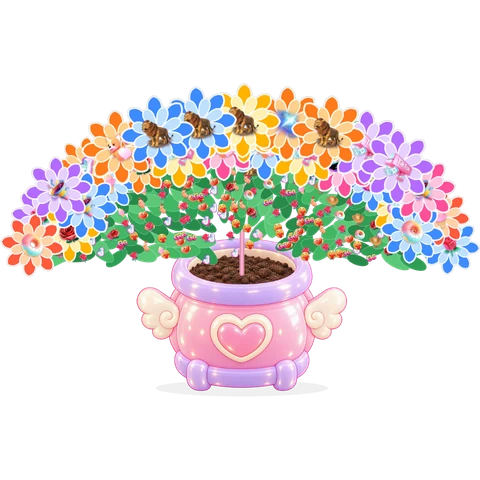
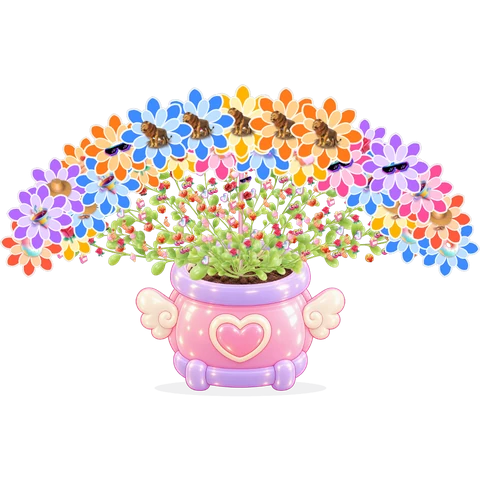
Garden bush: slender cute GPT branches with round leaves fan out from the pot (replaces drawn leaves)

Changed region(s): [[0.0, 0.1562, 1.0, 0.8125], [0.4062, 0.6562, 0.5938, 0.75]]

diff --git a/packages/overlay/public/garden.html b/packages/overlay/public/garden.html
@@ -1047,7 +1047,7 @@
         for (const f of mList) drawFlower(f, time, now);
         drawMeadow(time, 1);
       }
-      if (BUSH) drawBushLeaves(time);
+      if (BUSH) { bushPrep(); drawBushBranches(time); drawBushLeaves(time); }
       if (BUSH && bVer !== fVer) { bVer = fVer; bList = flowers.slice().sort((p, q) => (p.sl.rim ? 1 : 0) - (q.sl.rim ? 1 : 0) || (p.fs || 0) - (q.fs || 0)); } // พุ่ม: ดอกเล็ก/ข้างในก่อน → ดอกใหญ่/วงนอกอยู่บนสุด (ไม่ถูกบัง)
       for (const f of BUSH ? bList : flowers) {
         if (f.sl.cl || f.sl.meadow) continue; // แปลงผัก: วาดไปพร้อมกอแล้ว (drawBed) · ดอกในทุ่งวาดไปแล้วข้างบน
@@ -1092,17 +1092,26 @@
       ctx.beginPath(); ctx.moveTo(0, BUSH.rimY + 4); ctx.quadraticCurveTo(sw * 0.3, (BUSH.rimY + top) / 2, sw, top + 10);
       ctx.lineWidth = 7; ctx.strokeStyle = '#e68bb0'; ctx.stroke(); ctx.lineWidth = 2.5; ctx.strokeStyle = 'rgba(255,255,255,.45)'; ctx.stroke(); ctx.restore();
     }
-    const BUSH_LV = BUSH ? Array.from({ length: 230 }, (_, i) => { const r = 0.1 + 0.85 * Math.sqrt((i + 0.5) / 230), th = Math.PI + ((i * 0.618034) % 1) * Math.PI, q = bushPt(r, th); return { r, x: q.x, y: q.y, a: th + (rnd() - 0.5) * 1.6, s: 15 + rnd() * 10, c: ['#2f9e55', '#43b764', '#5cc878', '#278a49'][i % 4], ph: rnd() * 6 }; }) : [];
     let bushFill = 0, bfVer = -1;
-    function drawBushLeaves(time) { // พุ่มใบเขียวแน่น ขยายตามของขวัญที่อยู่ในพุ่ม (ใบไหวเบา ๆ)
-      if (bfVer !== fVer) { bfVer = fVer; const n = flowers.filter((f) => !f.sl.rim && f.sl.br !== 0.3).length; bushFill = n ? 0.2 + 0.72 * Math.sqrt(Math.min(1, n / 110)) : 0; } // พุ่มโตตามจำนวนของขวัญในพุ่ม
-      const lim = bushFill ? bushFill + 0.1 : 0, sc = 0.8 + 0.4 * dens;
-      for (const L of BUSH_LV) {
-        if (L.r > lim) continue;
-        ctx.save(); ctx.translate(L.x + Math.sin(time * 0.9 + L.y * 0.02) * 3 * SWAY * (-L.y / 400), L.y); ctx.rotate(L.a + Math.sin(time * 1.2 + L.ph) * 0.06 * SWAY);
-        leafPath('oval', L.s * sc); ctx.fillStyle = L.c; ctx.fill(); ctx.lineWidth = 1; ctx.strokeStyle = 'rgba(255,255,255,.25)'; ctx.stroke(); ctx.restore();
+    function bushPrep() { if (bfVer !== fVer) { bfVer = fVer; const n = flowers.filter((f) => !f.sl.rim && f.sl.br !== 0.3).length; bushFill = n ? 0.2 + 0.72 * Math.sqrt(Math.min(1, n / 110)) : 0; } } // พุ่มโตตามจำนวนของขวัญในพุ่ม
+    // กิ่งใบ: ภาพกิ่งเรียวใบกลม (GPT) แตกจากกลางกระถางเป็นพัด 2 ชั้น — ยาวตามพุ่มที่โต ไหวตามลม
+    const BUSH_SPR = [['themes/veg/bushbr-0.webp', 5.789], ['themes/veg/bushbr-1.webp', 6.281], ['themes/veg/bushbr-2.webp', 5.614], ['themes/veg/bushbr-3.webp', 5.536]]; // กิ่งเรียวใบกลมน่ารัก (GPT · docs/bush)
+    const BUSH_BR = BUSH ? [...Array.from({ length: 13 }, (_, i) => ({ u: (i + 0.5) / 13, k: 1 })), ...Array.from({ length: 10 }, (_, i) => ({ u: (i + 1) / 11, k: 0.68 }))].map((b, i) => {
+      const spr = BUSH_SPR[(i * 3 + 1) % 4];
+      return { th: Math.PI + 0.1 + b.u * (Math.PI - 0.2), k: b.k * (0.92 + rnd() * 0.16), spr: spr[0], asp: spr[1], m: i % 2 ? -1 : 1, ph: rnd() * 6 };
+    }) : [];
+    BUSH_BR.forEach((b) => vegImg(b.spr));
+    function drawBushBranches(time) {
+      if (!bushFill) return;
+      const reach = Math.max(0.32, bushFill + 0.06), x0 = 0, y0 = BUSH.rimY + 6;
+      for (const b of BUSH_BR) {
+        const im = vegImg(b.spr); if (!im) continue;
+        const e = bushPt(reach * b.k, b.th), L = Math.hypot(e.x - x0, e.y - y0) * 1.05, W = L / b.asp;
+        const ang = Math.atan2(e.y - y0, e.x - x0) + Math.PI / 2 + Math.sin(time * 1.1 + b.ph) * 0.035 * SWAY;
+        ctx.save(); ctx.translate(x0, y0); ctx.rotate(ang); ctx.scale(b.m, 1); ctx.drawImage(im, -W / 2, -L, W, L); ctx.restore();
       }
     }
+    function drawBushLeaves() { /* ใบไม้ = ภาพกิ่งใบใน drawBushBranches */ }
     function drawBigs(time, now) {
       bigs.forEach((b, i) => {
         // ตำแหน่งดอกใหญ่: ยอดกิ่งหลัก (กลางก่อน) → ปลายกิ่งย่อย · เกินแล้ววนซ้ำแบบเหลื่อมนิด ๆ (ไม่ซ้อนเป็นเสา)
